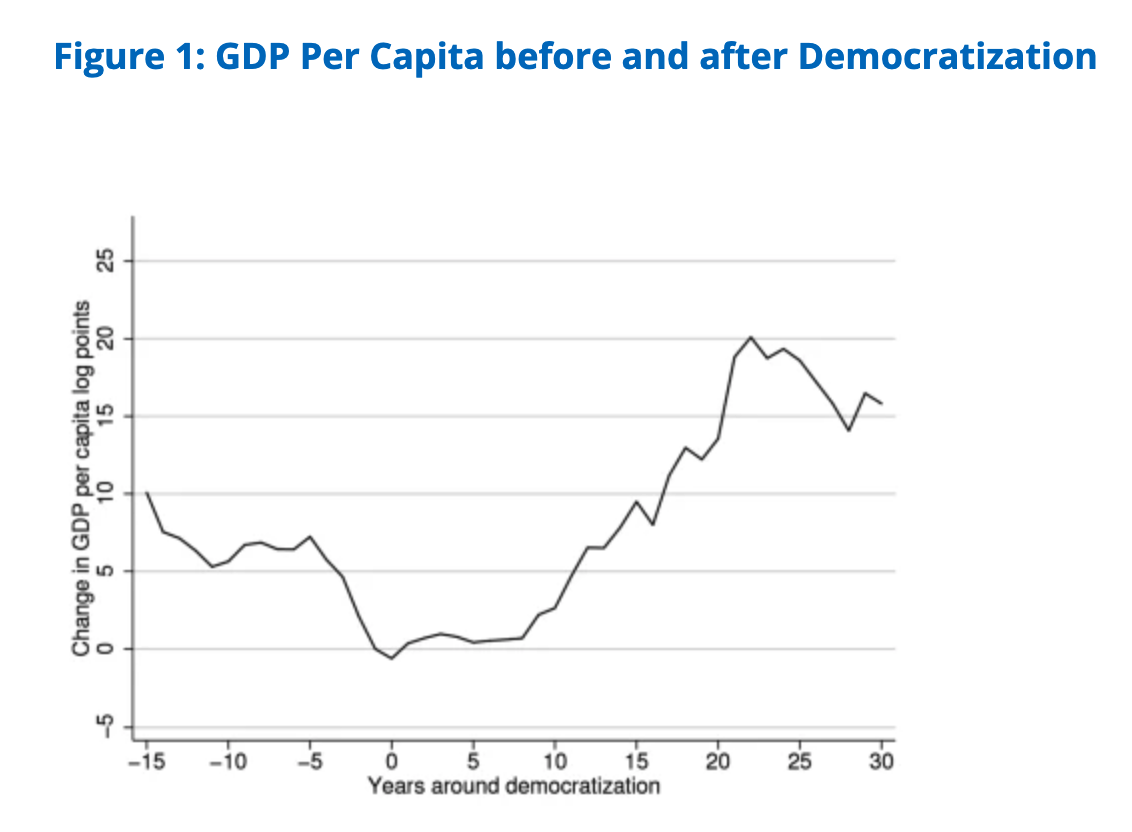
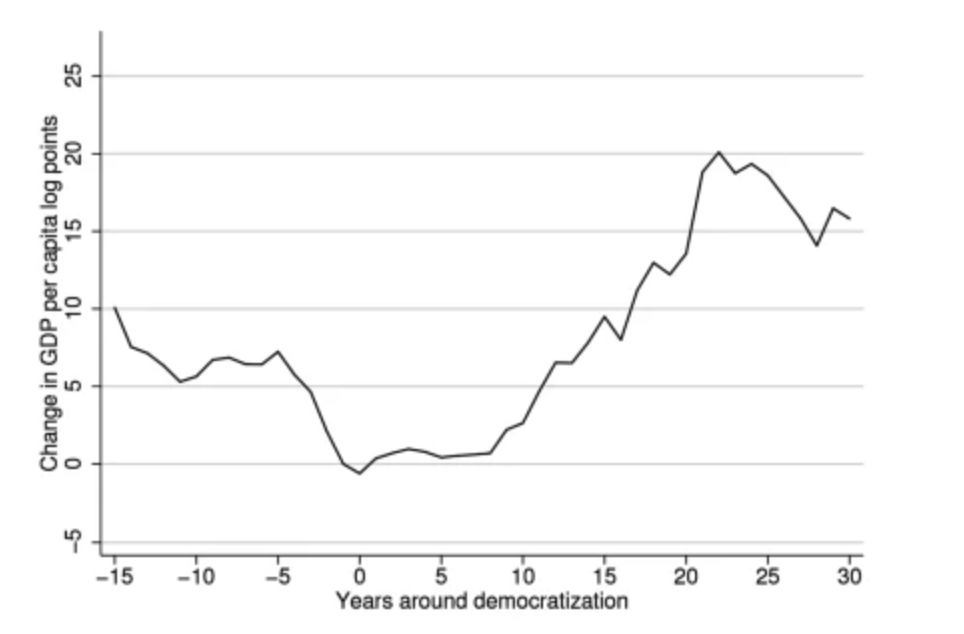
1.7.1

Changed region(s): [[0.0311, 0.03, 0.9647, 0.959]]

diff --git a/docs/chapter_18.html b/docs/chapter_18.html
@@ -321,9 +321,20 @@ Distribution \ of \ resources_{t+1} &amp;
 </ul>
 <div class="quarto-figure quarto-figure-center">
 <figure class="figure">
-<p><img src="figures/L18/GDP_Lawindex.png" class="img-fluid quarto-figure quarto-figure-center figure-img"></p>
+<p><img src="figures/L18/GDP_Lawindex.png" class="img-fluid figure-img"></p>
+<figcaption>Figure: Correlation between institutions and GDP</figcaption>
 </figure>
 </div>
+<ul>
+<li>The “Rule of Law Index” evaluates 142 countries and jurisdictions around the world. For the seventh year in a row, the rule of law has declined in most countries.</li>
+</ul>
+<div class="quarto-figure quarto-figure-center">
+<figure class="figure">
+<p><img src="figures/L18/Rules_of_law_ind.png" class="img-fluid figure-img"></p>
+<figcaption>Figure: Rules and Law Index in 2024</figcaption>
+</figure>
+</div>
+<p>You can find the recent Rules and Law Index from the following link: <a href="https://worldjusticeproject.org/rule-of-law-index/global" class="uri">https://worldjusticeproject.org/rule-of-law-index/global</a></p>
 <section id="institutions-are-endogenous" class="level5" data-number="15.2.2.1.1">
 <h5 data-number="15.2.2.1.1" class="anchored" data-anchor-id="institutions-are-endogenous"><span class="header-section-number">15.2.2.1.1</span> Institutions are endogenous</h5>
 <ul>
@@ -376,7 +387,8 @@ Distribution \ of \ resources_{t+1} &amp;
 <p>Acemoglu et al 2019 suggests that, on average, democratizations increase GDP per capita by about 20 percent in the long run (Figure below). However, that does not mean that one can just introduce elections and hope to get the observed average boost-effect. State capacity – shaped by the incentives, beliefs and professional norms shared among state personnel - is crucial to explain differences in institutional performance and policy effectiveness.</p>
 <div class="quarto-figure quarto-figure-center">
 <figure class="figure">
-<p><img src="figures/L18/Democracy.png" class="img-fluid quarto-figure quarto-figure-center figure-img" width="605"></p>
+<p><img src="figures/L18/Democracy.png" class="img-fluid figure-img" width="605"></p>
+<figcaption>Figure: GDP Per Capita before and after Democratization</figcaption>
 </figure>
 </div>
 <section id="the-korean-experiment" class="level4" data-number="15.2.3.1">
@@ -384,6 +396,7 @@ Distribution \ of \ resources_{t+1} &amp;
 <ul>
 <li>Natural experiment: Korea was divided into North and South after WWII.</li>
 </ul>
+<p>The division of Korea into North and South Korea after World War II is often considered a “natural experiment” by social scientists, as it provides a unique opportunity to study how two populations with largely similar cultural backgrounds can develop vastly different economic and political systems due to the contrasting political ideologies imposed on them by the occupying powers, the US and the Soviet Union, following the Cold War division along the 38th parallel. The Cold War division of Korea in 1948 can be viewed as an ongoing natural experiment in institutional change (Acemoglu et al., 2005).</p>
 <div class="quarto-figure quarto-figure-center">
 <figure class="figure">
 <p><img src="figures/L18/Korea.jpg" class="img-fluid quarto-figure quarto-figure-center figure-img" width="342"></p>
